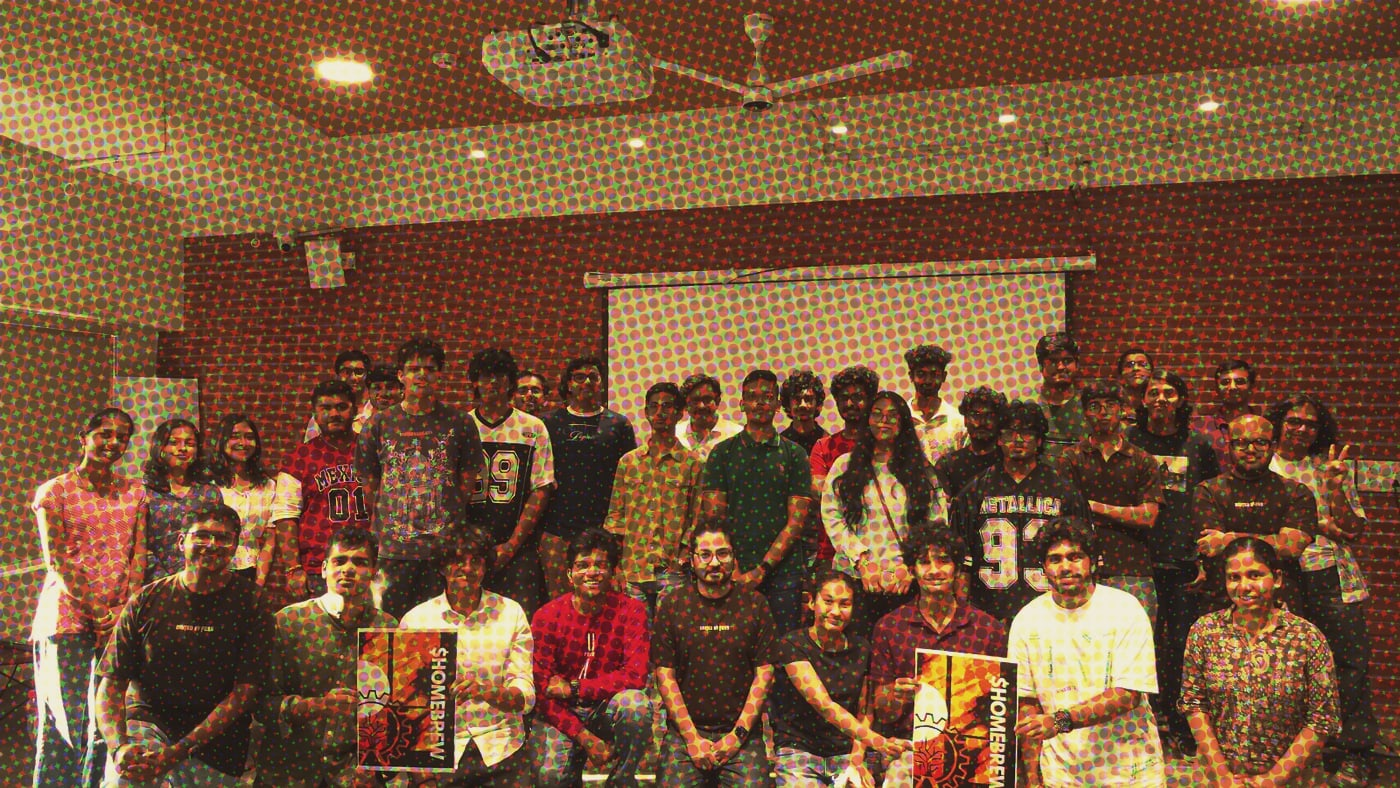
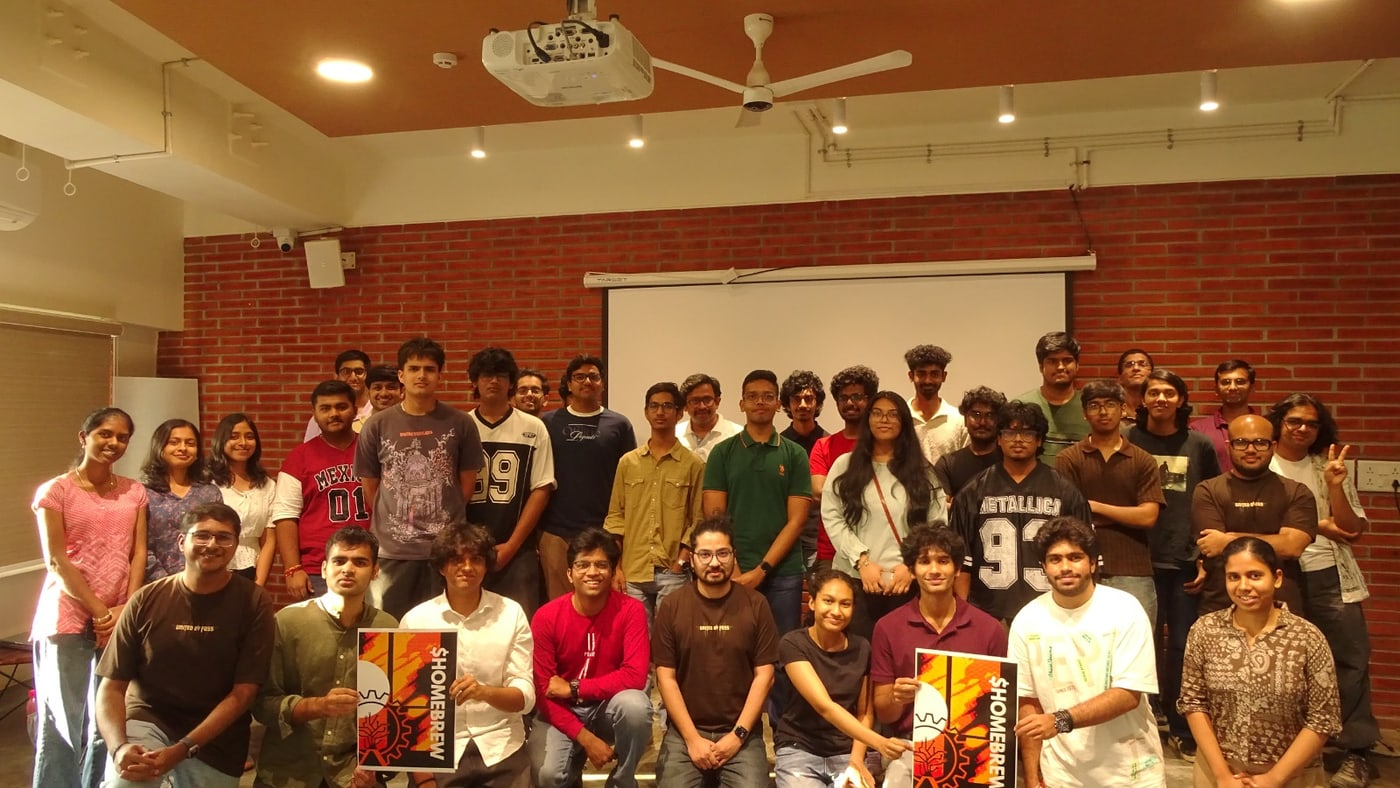
Clean photos (no colour-print dither); stickers all one size, never overlapping

diff --git a/src/components/journey/CardCluster.tsx b/src/components/journey/CardCluster.tsx
@@ -34,6 +34,8 @@ type Shown = Extract<Media, { kind: "image" | "post" | "video" }>;
 const ready = (m: Media): m is Shown =>
   m.kind === "image" || m.kind === "post" ? !!mediaSize(m.src) : m.kind === "video" ? !!mediaSize(m.poster) : false;
 
+const isSticker = (m: Shown) => m.kind === "image" && /^\/media\/(stickers|xeneva\/sticker)/.test(m.src);
+
 // A cutout or sticker stands on its own; everything else is mounted.
 const standsAlone = (m: Shown) => m.kind === "image" && /^\/media\/(cutouts|stickers|xeneva\/sticker)/.test(m.src);
 
@@ -73,7 +75,7 @@ export function CardCluster({ seed, sets, label, cornerTags = [], labelStrip, po
           key={set.label}
           role={set.alt && !label ? "group" : undefined}
           aria-label={set.alt && !label ? set.alt : undefined}
-          className={`relative flex w-full flex-wrap items-start justify-center ${s > 0 ? (pointers ? "mt-6" : "-mt-4 sm:-mt-8") : ""}`}
+          className={`relative flex w-full flex-wrap items-start justify-center ${s > 0 ? (pointers || shownSets[s - 1].items.filter((m) => isSticker(m)).length >= 2 ? "mt-6" : "-mt-4 sm:-mt-8") : ""}`}
         >
           {(() => {
             const cards = items.map((m, i) => {
@@ -108,6 +110,31 @@ export function CardCluster({ seed, sets, label, cornerTags = [], labelStrip, po
               // A card with a corner tag or an always-shown caption sits above its neighbours, so neither is hidden.
               return { m, i, wide, alone, later, card, make, lift: corner || extras.shownCaptions.includes(m.src) ? "z-10" : "" };
             });
+            // Stickers (the IndiaFOSS and Xeneva ones): all the same size, side by side with a little
+            // room between them, so none covers another (the user's call). Anything else in the set
+            // (the T-shirt) leads above them as usual.
+            const stickers = cards.filter((c) => isSticker(c.m));
+            if (stickers.length >= 2) {
+              const per = stickers.length <= 4 ? stickers.length : Math.ceil(stickers.length / 2);
+              return (
+                <>
+                  {cards
+                    .filter((c) => !isSticker(c.m))
+                    .map(({ m, alone, card }) => (
+                      <div key={key(m)} className={`relative z-20 ${alone ? "w-[62%] max-w-[18rem]" : "w-[80%] max-w-[26rem]"}`}>
+                        {card}
+                      </div>
+                    ))}
+                  <div className={`flex w-full flex-wrap justify-center gap-y-6 ${stickers.length < cards.length ? "mt-6" : ""}`}>
+                    {stickers.map(({ m, card, lift }) => (
+                      <div key={key(m)} className={`relative flex aspect-square items-center justify-center px-[2%] ${lift}`} style={{ width: `${100 / per}%` }}>
+                        <div className="w-full">{card}</div>
+                      </div>
+                    ))}
+                  </div>
+                </>
+              );
+            }
             const wideCards = cards.filter((c) => c.wide);
             const rest = cards.filter((c) => !c.wide);
             const maxW = (later: boolean) => (later ? "max-w-[17rem]" : "max-w-[15rem]");

diff --git a/TODO.md b/TODO.md
@@ -65,6 +65,7 @@
   - **Details text is 21px** (`--details-size`, user: at least 2pt more, 3 Nov; design.md updated). `extras.hiddenParagraphs` hides "But out of all of them, Shunya is the one I still think about." (the script keeps it).
   - **Live:** https://thisisselva-portfolio.vercel.app/ (Vercel, auto-deploys from main).
   - **Late changes (user, 3 Nov evening), all live:** favicon = Material/Flavicon.png → src/app/icon.png (512px) and the same cat replaces the music note in the head ring (`cutouts/cat.png`); music strip removed from the head; camera + writing hand move under the corner line on a laptop (`RING[].lg`); bigger Currents cover; Homebrew group photo leads; `extras.shownCaptions` (3 Homebrew photos) + SoundCloud + the ad video keep captions on show, and those cards sit in front; Bengaluru Systems graphic added to the posts; `extras.linkButtons` turns the Shunya post link into "Watch the reel here" under the video; Anthpo's two YouTube videos sit on the cards side (`embedsAsCards`); tighter note gaps (gap-5) and part spacing.
+  - **No dither (user, 3 Nov):** `colour-print` removed from all 24 photos and colour cutouts (design.md section 11); only the childhood cutout keeps its B&W halftone. **Stickers** (IndiaFOSS, Xeneva) are all one size in rows, never overlapping (`isSticker` in CardCluster).
   - **Scene layout options** (`PARTS` in src/components/journey/Scene.tsx): `wideMedia`, `mediaBeside`, `mediaUnder`, `buttonsUnderCards`, `embedsAsCards`, `tail`. Used by clubs-2025 (2 parts), music-2020, homebrew-2026, indiafoss-2026, anthpo.
   - **Live and deployed:** pushed to GitHub, Vercel auto-deploys main → https://thisisselva-portfolio.vercel.app/ (checked: 12 sections, no errors, no broken media, no sideways scroll, /kit 404s).
 - [ ] Phase 5: Scroll mode, with the real motion. **Next.** Wire `stick()`/`stickPile()` to scroll (notes stick in as they enter), cards pop in at 12fps, the head opening and cards flying out with the string pulling taut, the year bar with the dot, idle jitter. GSAP ScrollTrigger + Lenis. Respect reduced motion. Keep everything the user arranged in Phase 4 exactly where it is.
